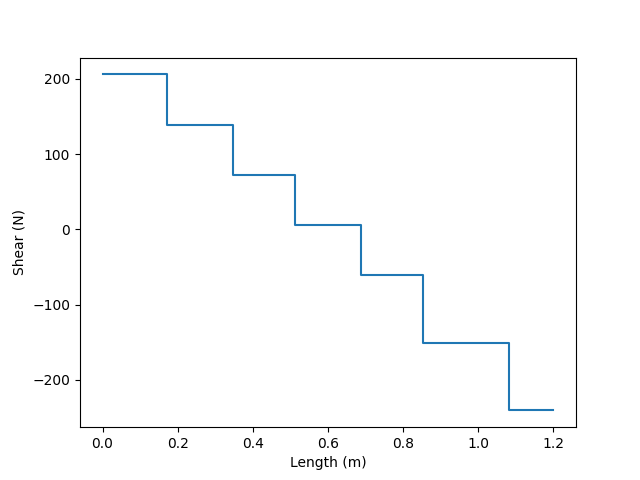
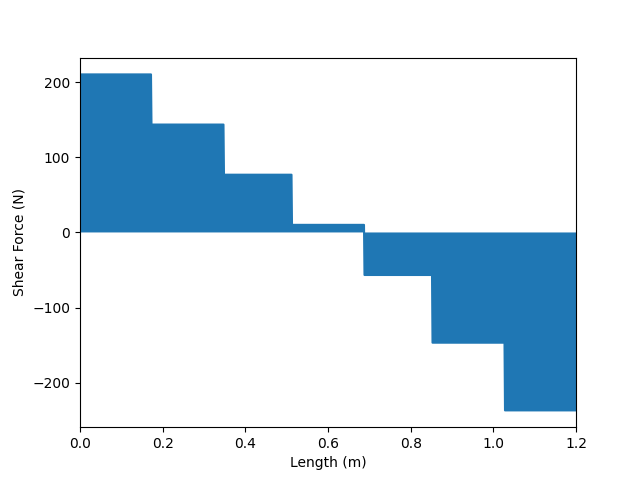
updated graphs

diff --git a/design0.py b/design0.py
@@ -1,8 +1,6 @@
 import calculate
 import graphs
-import sympy.plotting as plt
 import sympy as sy
-import scipy
 
 # [distance from base, width, height]
 rectangles = [
@@ -15,9 +13,8 @@ rectangles = [
 ]
 
 
-
-# ['point' ,length (m), force (kN)]
-# ['distributed' , length (m), uniform load (kNm)]
+# ['point' ,length (m), force (N)]
+# ['distributed' , length (m), uniform load (Nm)]
 # ['reaction' , length (m)]
 loads = [
     ["reaction", 0],
@@ -34,11 +31,30 @@ loads = [
 
 shear_force_expr, critical_lengths = calculate.get_shear_force_func(loads)
 
-plt.plot(shear_force_expr, (calculate.x, 0, 1.2))
+graphs.plot_sympy(
+    shear_force_expr,
+    calculate.x,
+    (0, 1.2),
+    x_axis_label="Length (m)",
+    y_axis_label="Shear Force (N)",
+    fill=True,
+    save_path="img\\design0_SFD.png",
+    show=False,
+)
 
 bending_moment_expr = sy.integrate(shear_force_expr)
 
-plt.plot(bending_moment_expr, (calculate.x, 0, 1.2))
+graphs.plot_sympy(
+    bending_moment_expr,
+    calculate.x,
+    (0, 1.2),
+    x_axis_label="Length (m)",
+    y_axis_label="Bending Moment (Nm)",
+    fill=True,
+    save_path="img\\design0_BMD.png",
+    invert_y=True,
+    show=False,
+)
 
 max_x, max_y = calculate.highest_bending_moment(critical_lengths, bending_moment_expr)
 
@@ -47,10 +63,17 @@ axis = calculate.centroidal_axis(rectangles)
 second_moment_area = calculate.second_moment_area(rectangles, axis)
 
 bounds = [axis, max([r[0] + r[2] / 2 for r in rectangles]) - axis]
-print(loads)
-print(axis)
-print(bounds, max_y, second_moment_area)
 
-stresses = [b * max_y / second_moment_area *1e3 for b in bounds]
-print( calculate.matboard_tensile_strength / stresses[0])
-print(  calculate.matboard_compressive_strength / stresses[1])
+stresses = [b * max_y / second_moment_area * 1e3 for b in bounds]
+
+print("Loads:")
+for load in loads:
+    print(load)
+print(f"Centroidal Axis: {axis}")
+print(f"Second Moment of Area: {second_moment_area}")
+print(f"Bounds: {bounds}")
+print(f"Maximum Bending Moment: {max_y}")
+print(f"Tension Safety Factor: {calculate.matboard_tensile_strength / stresses[0]}")
+print(
+    f"Compression Safety Factor: {calculate.matboard_compressive_strength / stresses[1]}"
+)

diff --git a/graphs.py b/graphs.py
@@ -1,25 +1,47 @@
 import numpy as np
-from calculate import x
-# import matplotlib.pyplot as plt
-import sympy.plotting as plt 
+import matplotlib.pyplot as plt
 import sympy as sy
 
-### Add functions to generate graphs here ###
 
-def plot_piecewise(f):
-    # x = sy.Symbol("x", real=True)
-    # x_array = np.linspace(-5, 5, 1000)
-    # f_array = sy.lambdify(x, f)(x_array)
-    print(f)
-    plt.plot( f, (x, 0,16))
+def plot_bridge(nodes, x_bounds=None, y_bounds=None, margin=5):
+    nodes_x = [n.x for n in nodes]
+    nodes_y = [n.y for n in nodes]
+    plt.plot(nodes_x, nodes_y, "o")
+
+    ax = plt.gca()
+    ax.set_aspect("equal", adjustable="box")
+    if x_bounds != None:
+        plt.xlim([x_bounds[0] - margin, x_bounds[1] + margin])
+    if y_bounds != None:
+        plt.ylim([y_bounds[0] - margin, y_bounds[1] + margin])
+    plt.show()
 
 
-def line_graph(y_axis, x_axis_label="x", y_axis_label="y", invert_y=False, save_path="graph.png"):
-    plt.plot(x_axis, y_axis)
+def plot_sympy(
+    sympy_expr,
+    symbol,
+    interval,
+    x_axis_label="x",
+    y_axis_label="y",
+    invert_y=False,
+    save_path="graph.png",
+    spacing=1000,
+    fill=False,
+    show=True,
+):
+    x_axis = np.linspace(interval[0], interval[1], spacing)
+    y_axis = sy.lambdify(symbol, sympy_expr)(x_axis)
+    (line,) = plt.plot(x_axis, y_axis)
     plt.xlabel(x_axis_label)
     plt.ylabel(y_axis_label)
+    ax = plt.gca()
+    ax.set_xlim(left=interval[0], right=interval[1])
     if invert_y:
-        ax = plt.gca()
         ax.invert_yaxis()
+    if fill:
+        ax.fill_between(x_axis, y_axis, facecolor=line.get_color())
     plt.savefig(save_path)
-    plt.show()
+    if show:
+        plt.show()
+    else:
+        plt.clf()

diff --git a/calculate.py b/calculate.py
@@ -203,3 +203,64 @@ def get_shear_force_func(loads):
     shear_forces.append((0, True))
 
     return sy.Piecewise(*shear_forces), critical_lengths
+
+
+class Node:
+    def __init__(self, x, y):
+        self.x = x
+        self.y = y
+        self.nodes = []
+    
+    def __repr__(self):
+        return f"[{self.x},{self.y}]"
+
+
+class Member:
+    def __init__(self, n1, n2):
+        self.nodes = (n1, n2)
+
+
+def connect_nodes(a, b):
+    member = Member(a, b)
+    a.nodes.append(member)
+    b.nodes.append(member)
+
+
+def generate_standard_truss(num_horizontal_nodes, height, length):
+    top_nodes = []
+    bottom_nodes = []
+    nodes = []
+
+    for n in range(num_horizontal_nodes):
+        node = Node(length / (num_horizontal_nodes - 1) * n, 0)
+        bottom_nodes.append(node)
+        nodes.append(node)
+
+    for n in range(1, num_horizontal_nodes - 1):
+        node = Node(length / (num_horizontal_nodes - 1) * n, height)
+        top_nodes.append(node)
+        nodes.append(node)
+
+    return nodes, top_nodes, bottom_nodes
+
+
+def connect_nodes_pratt(top_nodes, bottom_nodes):
+    length_top = len(top_nodes)
+    length_bottom = len(bottom_nodes)
+
+    # Connect top nodes
+    for i in range(length_top - 1):
+        connect_nodes(top_nodes[i], top_nodes[i + 1])
+
+    # Connect bottom nodes
+    for i in range(length_bottom - 1):
+        connect_nodes(bottom_nodes[i], bottom_nodes[i + 1])
+
+    for i in range(length_top):
+        connect_nodes(top_nodes[i], bottom_nodes[i + 1])
+
+    for i in range((length_top + 1) / 2):
+        connect_nodes(bottom_nodes[i], top_nodes[i])
+        connect_nodes(
+            bottom_nodes[length_bottom - 1 - i], top_nodes[length_top - 1 - i]
+        )

diff --git a/bridge.py b/bridge.py
@@ -1,0 +1,6 @@
+from calculate import *
+from graphs import plot_bridge
+
+nodes, top_nodes, bottom_nodes = generate_standard_truss(10,3,50)
+# print(nodes)
+plot_bridge(nodes, y_bounds=[bottom_nodes[0].y,top_nodes[0].y])
